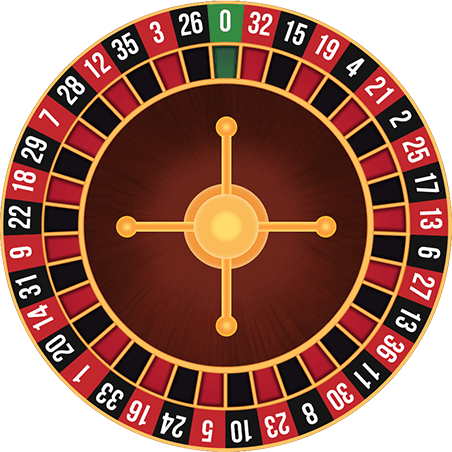
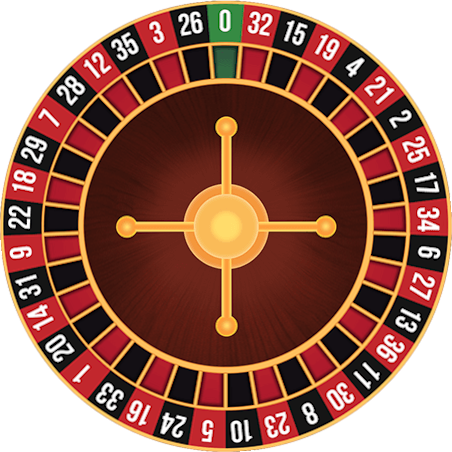
implement roulette

diff --git a/static/roulette.js b/static/roulette.js
@@ -27,7 +27,8 @@ function setup() {
 }
 
 let ballAngle = 0;
-const rvals = [0, 32, 15, 19, 4, 21, 2, 25, 17, 13, 6, 27, 13, 36, 11, 30, 8, 23, 10, 5, 24, 16, 33, 1, 20, 14, 13, 9, 22, 18, 29, 7, 28, 12, 35, 3, 26];
+const rvals = [0, 32, 15, 19, 4, 21, 2, 25, 17, 34, 6, 27, 13, 36, 11, 30, 8, 23, 10, 5, 24, 16, 33, 1, 20, 14,
+    31, 9, 22, 18, 29, 7, 28, 12, 35, 3, 26];
 const ranges = [];
 {
     for (let m = 0; m < 37; m++) {
@@ -108,14 +109,253 @@ function drawWheel() {
 
 let wheelAngle = 0;
 let wheelSpinState = 0;
+let spinning = false;
 
 function animate(timeFraction) {
     return Math.pow(timeFraction, 2);
 }
 
+function isMouseOver(x, y, x2, y2) {
+    if (mouseX >= x && mouseX <= x2) {
+        return mouseY >= y && mouseY <= y2;
+    }
+
+    return false;
+}
+
+function drawTable() {
+    push();
+    translate(0, 46);
+
+    for (let i = 0; i < 36; i++) {
+        push();
+        const v = i + 1;
+        translate((i % 12) * 64, Math.floor(i / 12) * 64);
+
+        textSize(20);
+        let color = [255, 255, 255];
+        if (i % 2 === 0) {
+            color = [255, 0, 0];
+        } else {
+            color = [0, 0, 0];
+        }
+
+
+        fill(color);
+        let xOffset = 0;
+        if (i + 1 > 9) xOffset = 5;
+        text(`${v}`, 50 - xOffset, 55);
+
+        stroke(color);
+        line(30, 20, 85, 20);
+        line(85, 20, 85, 75);
+        line(85, 75, 30, 75);
+        line(30, 20, 30, 75);
+        pop();
+    }
+
+    {
+        push();
+        translate(0, 3 * 64);
+
+        fill(0, 255, 0);
+        textSize(20);
+        text("0", 85, 55);
+
+        stroke(0, 255, 0);
+        line(30, 20, 150, 20);
+        line(150, 20, 150, 75);
+        line(150, 75, 30, 75);
+        line(30, 20, 30, 75);
+        pop();
+    }
+
+    {
+        push();
+        translate(128, 3 * 64);
+
+        fill(0);
+        textSize(20);
+        text("Black", 60, 55);
+
+        stroke(0);
+        line(30, 20, 150, 20);
+        line(150, 20, 150, 75);
+        line(150, 75, 30, 75);
+        line(30, 20, 30, 75);
+        pop();
+    }
+
+    {
+        push();
+        translate(256, 3 * 64);
+
+        fill(255, 0, 0);
+        textSize(20);
+        text("Red", 70, 55);
+
+        stroke(255, 0, 0);
+        line(30, 20, 150, 20);
+        line(150, 20, 150, 75);
+        line(150, 75, 30, 75);
+        line(30, 20, 30, 75);
+        pop();
+    }
+
+    {
+        push();
+        translate(0, 4 * 64);
+
+        fill(255);
+        textSize(20);
+        text("Spin", 64, 55);
+
+        stroke(255);
+        line(30, 20, 150, 20);
+        line(150, 20, 150, 75);
+        line(150, 75, 30, 75);
+        line(30, 20, 30, 75);
+        pop();
+    }
+
+    pop();
+}
+
+let bets = [];
+if (storedGameState.roulette && storedGameState.roulette.bets) {
+    bets = storedGameState.roulette.bets;
+}
+
+let lastBallDelta = -1;
+let stopTimer = 1;
 function draw() {
+    textFont('DM Mono');
     background(79, 77, 104, 255);
 
     noStroke();
     tint(255, 255);
+
+
+    push();
+    translate(30, 46);
+
+    fill(255);
+    textSize(32);
+    text(`Bets: ${bets.length * 50}`, 0, 0);
+    pop();
+
+    if (spinning) {
+        drawWheel();
+
+        let ballDelta = ballMaxDist - ballDist;
+        if (lastBallDelta === ballDelta) {
+            stopTimer -= 0.07;
+            if (stopTimer < 0) {
+                const ballPos = ballLocation(wheelAngle, ballAngle);
+                const result = rvals[ballPos];
+
+                let n = 0;
+                (async () => {
+                    let black = ballPos % 2 === 0;
+                    console.log(black, result);
+
+                    bets.forEach(b => {
+                        if (b.startsWith("n")) {
+                            const bn = parseInt(b.substring(1));
+                            if (bn === result) n += 50 * 38;
+                        } else {
+                            if (b === "b") {
+                                if (black) n += 50 * 3;
+                            } else {
+                                if (!black) n += 50 * 3;
+                            }
+                        }
+                    });
+
+                    const delta = n - bets.length * 50;
+
+                    storedGameState.lastBet = delta;
+                    await updateGameState();
+                    await endGame(1);
+
+                    if (delta === 0) {
+                        alert('You broke even');
+                        location.reload();
+                        return;
+                    }
+                    if (delta < 0) {
+                        alert(`You lost ${-delta}`);
+                        location.reload();
+                        return;
+                    }
+
+                    alert(`You won ${delta}`);
+                    location.reload();
+                })();
+
+                spinning = false;
+            }
+        }
+        lastBallDelta = ballDelta;
+    } else {
+        drawTable();
+    }
+
+    fill(255);
+    textSize(20);
 }
+
+function onClick() {
+    if (spinning) return;
+
+    let v = -1;
+    for (let i = 0; i < 36; i++) {
+        const n1X = 46 + (i % 12) * 64;
+        const n1Y = 46 + Math.floor(i / 12) * 64;
+        if (isMouseOver(n1X, n1Y, n1X + 85, n1Y + 85)) {
+            v = i + 1;
+        }
+    }
+
+    const n2X = 46 + 30;
+    const n2Y = 46 + (3 * 64) + 20;
+    const n3X = n2X + 128;
+    const n4X = n3X + 128;
+
+    const n5X = 46 + 30;
+    const n5Y = 46 + (4 * 64) + 20;
+
+    if (isMouseOver(n2X, n2Y, n2X + 150, n2Y + 75)) {
+        v = 0;
+    }
+    if (isMouseOver(n3X, n2Y, n3X + 150, n2Y + 75)) {
+        v = -2;
+    }
+    if (isMouseOver(n4X, n2Y, n4X + 150, n2Y + 75)) {
+        v = -3;
+    }
+    if (isMouseOver(n5X, n5Y, n5X + 150, n5Y + 75)) {
+        v = -4;
+    }
+
+    switch (v) {
+        case -1:
+            break;
+        case -2:
+            bets.push("b");
+            break;
+        case -3:
+            bets.push("r");
+            break;
+        case -4:
+            spinning = true;
+            break;
+        default:
+            bets.push(`n${v}`);
+    }
+
+    storedGameState.roulette = {bets};
+    updateGameState();
+}
+
+document.body.onmousedown = onClick;

diff --git a/static/roulette.html b/static/roulette.html
@@ -7,8 +7,6 @@
     <link href='https://fonts.googleapis.com/css?family=DM Mono' rel='stylesheet'>
     <title>Roulette</title>
     <link rel="stylesheet" href="gamesstyle.css">
-    <script src="https://cdnjs.cloudflare.com/ajax/libs/p5.js/1.2.0/p5.js"></script>
-    <script src="https://cdnjs.cloudflare.com/ajax/libs/p5.js/1.2.0/addons/p5.sound.min.js"></script>
 </head>
 <body>
     <!-- Navbar start -->
@@ -25,8 +23,21 @@
     </div>
     <!-- Navbar end -->
 
+    <script>
+        window.postAuth = () => {
+            const scripts = [
+                "https://cdnjs.cloudflare.com/ajax/libs/p5.js/1.2.0/p5.js",
+                "roulette.js"
+            ];
+
+            scripts.forEach(script => {
+                const tag = document.createElement("script");
+                tag.src = script;
+
+                document.body.appendChild(tag);
+            })
+        }
+    </script>
     <script src="auth.js"></script>
-    <script src="animation.js"></script>
-    <script src="roulette.js"></script>
 </body>
 </html>
